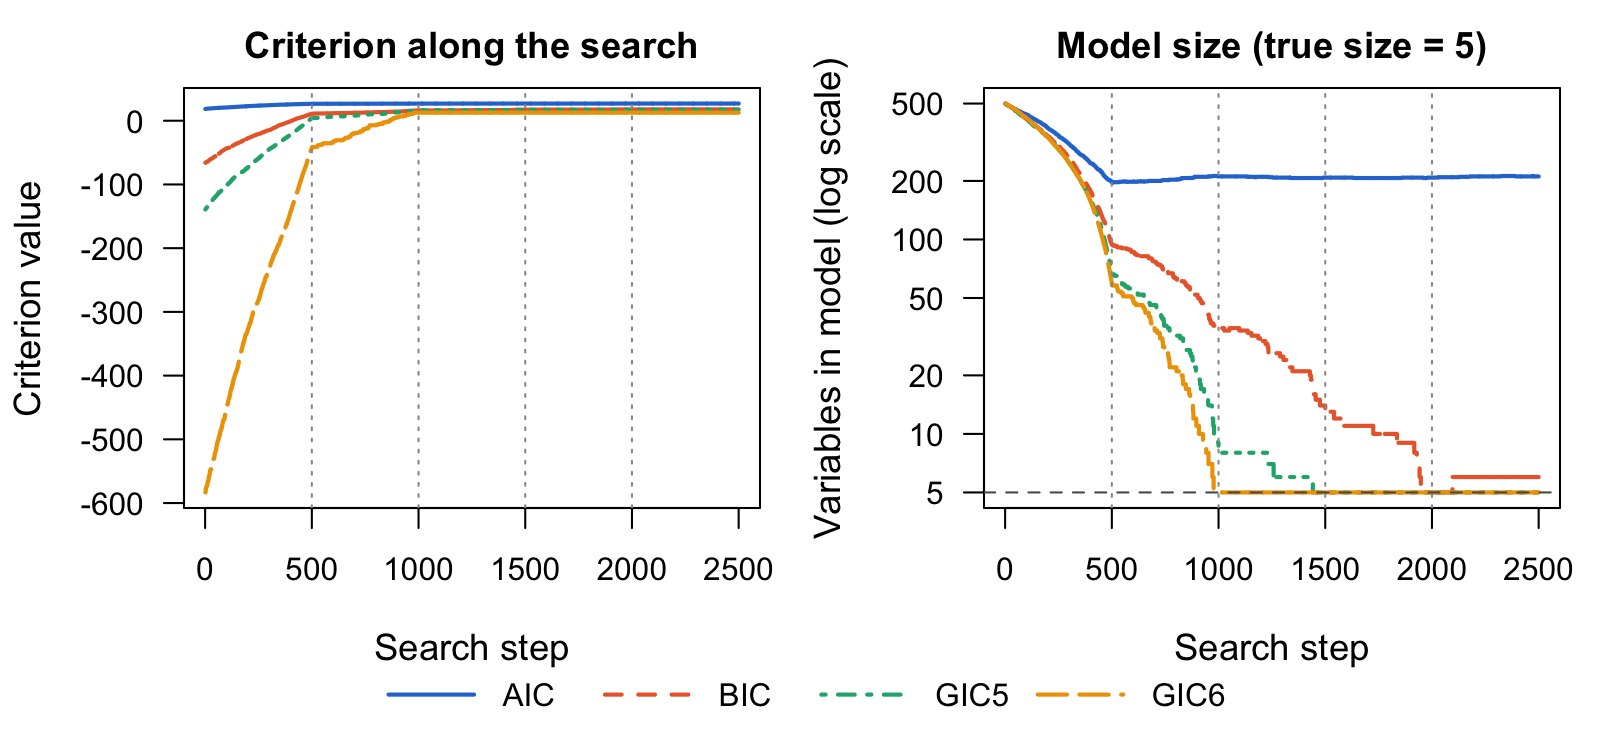
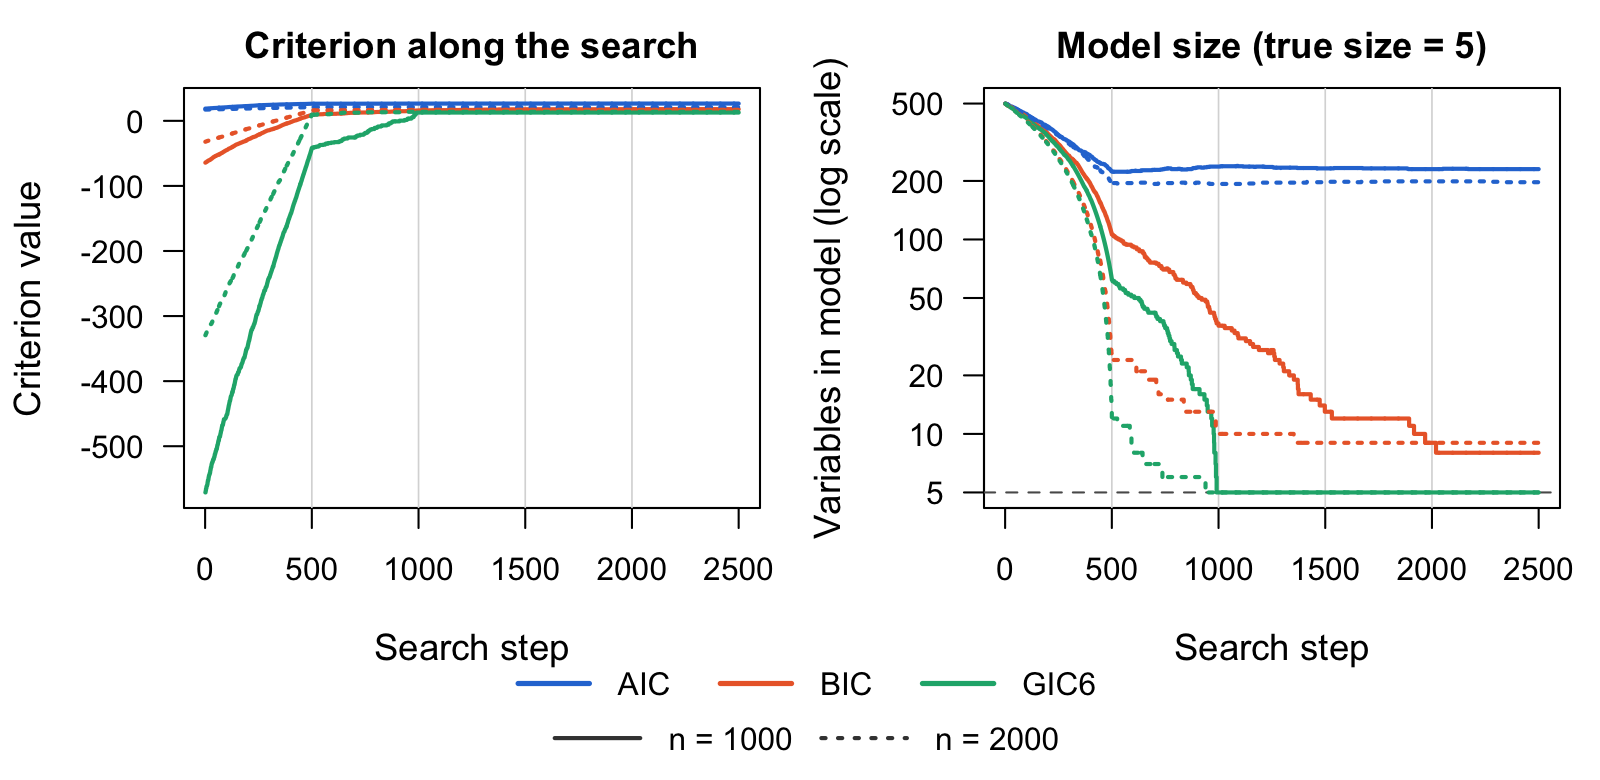
Examples: compare AIC, BIC and GIC6 at n = 1000 and n = 2000
GIC5 is dropped. Each example simulates 2000 observations and runs every
criterion on the first 1000 and on all 2000; figures draw n = 1000 as
solid and n = 2000 as dotted lines.

diff --git a/README.md b/README.md
@@ -33,9 +33,12 @@ install_julia_packages()   # first time only
 
 ## Examples
 
-The examples below compare four criteria on the same data. In increasing
-order of penalty per variable, they are AIC ($c_n = 1$), BIC ($\log n$),
-GIC5 ($\log\log n \, \log P$) and GIC6 ($\log n \, \log P$). The
+The examples below compare three criteria on the same data. In increasing
+order of penalty per variable, they are AIC ($c_n = 1$), BIC ($\log n$) and
+GIC6 ($\log n \, \log P$). Each example simulates $n = 2000$ observations
+on $p = 500$ candidate predictors and runs every search twice, on the first
+1000 observations and on all 2000, to show how selection improves with more
+data. The
 [Examples article](https://yuchenxiao95.github.io/GICHighDimension/articles/examples.html)
 (`vignette("examples")`) explains each step, and the Get started article
 (`vignette("get-started")`) lists all criteria and response families.
@@ -51,29 +54,37 @@ set_seeds <- function(seed) {
   JuliaCall::julia_command(sprintf("import Random; Random.seed!(%d);", seed))
 }
 
-criteria <- c(AIC = "Calculate_AIC", BIC = "Calculate_BIC",
-              GIC5 = "Calculate_GIC5", GIC6 = "Calculate_GIC6")
+criteria <- c(AIC = "Calculate_AIC", BIC = "Calculate_BIC", GIC6 = "Calculate_GIC6")
+sample_sizes <- c(n1000 = 1000, n2000 = 2000)
 
-# Run the search once per criterion
+# Run the search once per criterion, on the first n observations for each n
 compare_criteria <- function(X, Y, init, k, Nsim) {
-  lapply(criteria, function(crit)
-    GICSelection(X, Y, init, crit, paste0(crit, "_short"), k = k, Nsim = Nsim))
+  lapply(sample_sizes, function(n) {
+    Xn <- X[1:n, ]
+    Yn <- if (is.matrix(Y)) Y[1:n, , drop = FALSE] else Y[1:n]
+    lapply(criteria, function(crit)
+      GICSelection(Xn, Yn, init, crit, paste0(crit, "_short"), k = k, Nsim = Nsim))
+  })
 }
 
 last_model <- function(fit) sort(fit$selected_coeffs[[length(fit$selected_coeffs)]])
 
 # Size, false positives and false negatives of each final model
 selection_table <- function(fits, truth) {
-  t(sapply(fits, function(fit) {
+  rows <- lapply(fits, function(by_crit) t(sapply(by_crit, function(fit) {
     s <- last_model(fit)
     c(size = length(s), false_pos = length(setdiff(s, truth)),
       false_neg = length(setdiff(truth, s)))
-  }))
+  })))
+  out <- do.call(rbind, rows)
+  rownames(out) <- paste(rep(names(fits), each = length(criteria)), rownames(out))
+  out
 }
 ```
 
 Each figure shows, for every criterion, its value and the number of selected
-variables after each search step. Dotted lines mark a new pass over the
+variables after each search step: solid lines for $n = 1000$ and dotted lines
+for $n = 2000$. Light grey vertical lines mark a new pass over the
 predictors, and the dashed line marks the true model size. Criteria with
 larger penalties take lower values, so compare the shapes of the curves, not
 their heights. The script
@@ -82,13 +93,13 @@ section and redraws the figures.
 
 ### Linear model with 500 candidate predictors
 
-Take $n = 1000$ and $p = 500$, with 5 true coefficients equal to 2 and the
+Take $n = 2000$ and $p = 500$, with 5 true coefficients equal to 2 and the
 noise set for a signal-to-noise ratio of $\beta^\top\Sigma\beta/\sigma^2 = 0.71$.
 Start every search from the full model:
 
 ```r
 set_seeds(1)
-n <- 1000; p <- 500
+n <- 2000; p <- 500
 X <- matrix(rnorm(n * p), n, p)
 true_cols <- sort(sample(p, 5))
 beta <- numeric(p); beta[true_cols] <- 2
@@ -96,19 +107,22 @@ Y <- LP_to_Y(X, beta, family = "Normal", std = sqrt(sum(beta^2) / 0.71))
 
 fits <- compare_criteria(X, Y, 1:p, k = p, Nsim = 5)
 selection_table(fits, true_cols)
-#>      size false_pos false_neg
-#> AIC   211       206         0
-#> BIC     6         1         0
-#> GIC5    5         0         0
-#> GIC6    5         0         0
+#>            size false_pos false_neg
+#> n1000 AIC   230       225         0
+#> n1000 BIC     8         3         0
+#> n1000 GIC6    5         0         0
+#> n2000 AIC   197       192         0
+#> n2000 BIC     9         4         0
+#> n2000 GIC6    5         0         0
 ```
 
 ![Criteria and model size along the search, linear model with p = 500](man/figures/README-linear.png)
 
-AIC keeps about 200 variables, because its penalty does not grow with $n$ or
-$P$. BIC keeps all 5 true predictors and one noise variable. GIC5 and GIC6,
-whose penalties grow with $\log P$, select exactly the true model, and GIC6,
-the largest penalty, gets there fastest.
+GIC6 selects exactly the 5 true predictors at both sample sizes. BIC keeps
+all 5 but adds 3 noise variables at $n = 1000$ and 4 at $n = 2000$: doubling
+$n$ does not help, because its penalty ignores the 500 candidates. AIC keeps
+about 200 variables at either size.
+
 
 ### Multivariate normal
 
@@ -129,26 +143,30 @@ true_union <- sort(unique(unlist(true_by_response)))
 
 fits <- compare_criteria(X, Y_multi, 1:p, k = p, Nsim = 5)
 selection_table(fits, true_union)
-#>      size false_pos false_neg
-#> AIC   276       251         0
-#> BIC    20         0         5
-#> GIC5   20         0         5
-#> GIC6   20         0         5
+#>            size false_pos false_neg
+#> n1000 AIC   268       245         1
+#> n1000 BIC    20         0         4
+#> n1000 GIC6   19         0         5
+#> n2000 AIC   232       208         0
+#> n2000 BIC    20         0         4
+#> n2000 GIC6   19         0         5
 ```
 
 ![Criteria and model size along the search, multivariate normal response](man/figures/README-multivariate.png)
 
-BIC, GIC5 and GIC6 select the same 20 predictors with no false positives. The
-5 they miss are the predictors with coefficient 0.1, one per response, which
-are too small to detect with $n = 1000$. AIC finds those 5 too, but only
-inside a model of 276 variables.
+Two responses share a predictor, so 24 predictors are truly active. BIC and
+GIC6 select no noise variables at either sample size. Every predictor they
+miss (4 for BIC, 5 for GIC6) has a coefficient of 0.1, which is too small to
+detect with 1000 or 2000 observations. AIC finds all 24 at $n = 2000$, but
+inside a model of 232 variables.
+
 
 ### Generalized linear models
 
 For a non-Gaussian response, map it to the linear-predictor scale with
 `Y_to_LP()`, select with `GICSelection()`, and then fit the selected model
 with `Beta_estimate()`. The GLM examples reuse the design matrix `X` from
-above ($n = 1000$, $p = 500$), with 5 true predictors, and start each search
+above ($n = 2000$, $p = 500$), with 5 true predictors, and start each search
 from the first 10 columns.
 
 ```r
@@ -165,15 +183,17 @@ compare_glm <- function(Y, ...) compare_criteria(X, Y_to_LP(Y, ...), 1:10, k = 5
 y_pois <- LP_to_Y(X, beta, family = "Poisson")
 fits <- compare_glm(y_pois, family = "Poisson")
 selection_table(fits, true_cols)
-#>      size false_pos false_neg
-#> AIC    49        46         2
-#> BIC     7         2         0
-#> GIC5    5         0         0
-#> GIC6    5         0         0
+#>            size false_pos false_neg
+#> n1000 AIC    49        45         1
+#> n1000 BIC     9         4         0
+#> n1000 GIC6    5         0         0
+#> n2000 AIC    49        45         1
+#> n2000 BIC    10         5         0
+#> n2000 GIC6    5         0         0
 
-# Coefficients of the GIC6 model, intercept first
-round(Beta_estimate(X[, last_model(fits$GIC6)], y_pois, family = "Poisson"), 2)
-#> [1] -0.05  1.04 -1.02  0.80 -0.80  0.60
+# Coefficients of the GIC6 model for n = 2000, intercept first
+round(Beta_estimate(X[, last_model(fits$n2000$GIC6)], y_pois, family = "Poisson"), 2)
+#> [1] -0.03  1.00 -1.01  0.79 -0.80  0.62
 ```
 
 ![Criteria and model size along the search, Poisson response](man/figures/README-poisson.png)
@@ -184,11 +204,13 @@ round(Beta_estimate(X[, last_model(fits$GIC6)], y_pois, family = "Poisson"), 2)
 y_binom <- LP_to_Y(X, beta, family = "Binomial", n_trials = 10)
 fits <- compare_glm(y_binom, family = "Binomial", n_trials = 10)
 selection_table(fits, true_cols)
-#>      size false_pos false_neg
-#> AIC    49        46         2
-#> BIC     8         3         0
-#> GIC5    5         0         0
-#> GIC6    5         0         0
+#>            size false_pos false_neg
+#> n1000 AIC    49        47         3
+#> n1000 BIC     9         4         0
+#> n1000 GIC6    5         0         0
+#> n2000 AIC    49        46         2
+#> n2000 BIC     8         3         0
+#> n2000 GIC6    5         0         0
 ```
 
 ![Criteria and model size along the search, binomial response](man/figures/README-binomial.png)
@@ -204,16 +226,19 @@ B_mn[true_cols, 2] <- c(-1.5, 1.5, -1.5, 1.5, -1.5)
 y_mn <- LP_to_Y(X, B_mn, family = "Multinomial", n_categories = 3)
 fits <- compare_glm(y_mn, family = "Multinomial", n_categories = 3)
 selection_table(fits, true_cols)
-#>      size false_pos false_neg
-#> AIC    49        46         2
-#> BIC    10         5         0
-#> GIC5    5         0         0
-#> GIC6    5         0         0
+#>            size false_pos false_neg
+#> n1000 AIC    49        47         3
+#> n1000 BIC     9         4         0
+#> n1000 GIC6    5         0         0
+#> n2000 AIC    49        48         4
+#> n2000 BIC     8         3         0
+#> n2000 GIC6    5         0         0
 ```
 
 ![Criteria and model size along the search, multinomial response](man/figures/README-multinomial.png)
 
-In all three GLMs, GIC5 and GIC6 select exactly the 5 true predictors. BIC
-keeps the true predictors but adds 2 to 5 noise variables. AIC grows the
-model until it hits the size cap (`k = 50`, so at most 49 variables) and
-misses 2 true predictors.
+In all three GLMs, GIC6 selects exactly the 5 true predictors at both sample
+sizes. BIC keeps the true predictors but adds 3 to 5 noise variables, with no
+clear gain from doubling $n$. AIC grows the model until it hits the size cap
+(`k = 50`, so at most 49 variables) and misses 1 to 4 true predictors.
+

diff --git a/NEWS.md b/NEWS.md
@@ -13,7 +13,7 @@
 
 * New article, `vignette("examples")`: worked simulations for a linear model
   with 500 predictors, a multivariate-normal response, and Poisson, binomial
-  and multinomial GLMs, each comparing AIC, BIC, GIC5 and GIC6.
+  and multinomial GLMs, each comparing AIC, BIC and GIC6 at n = 1000 and 2000.
 * `LP_to_Y()`, `Y_to_LP()` and `Beta_estimate()` support Normal, Bernoulli,
   Binomial, Poisson, Gamma, Exponential, InverseGaussian, NegativeBinomial,
   Geometric, MultivariateNormal and Multinomial responses.
